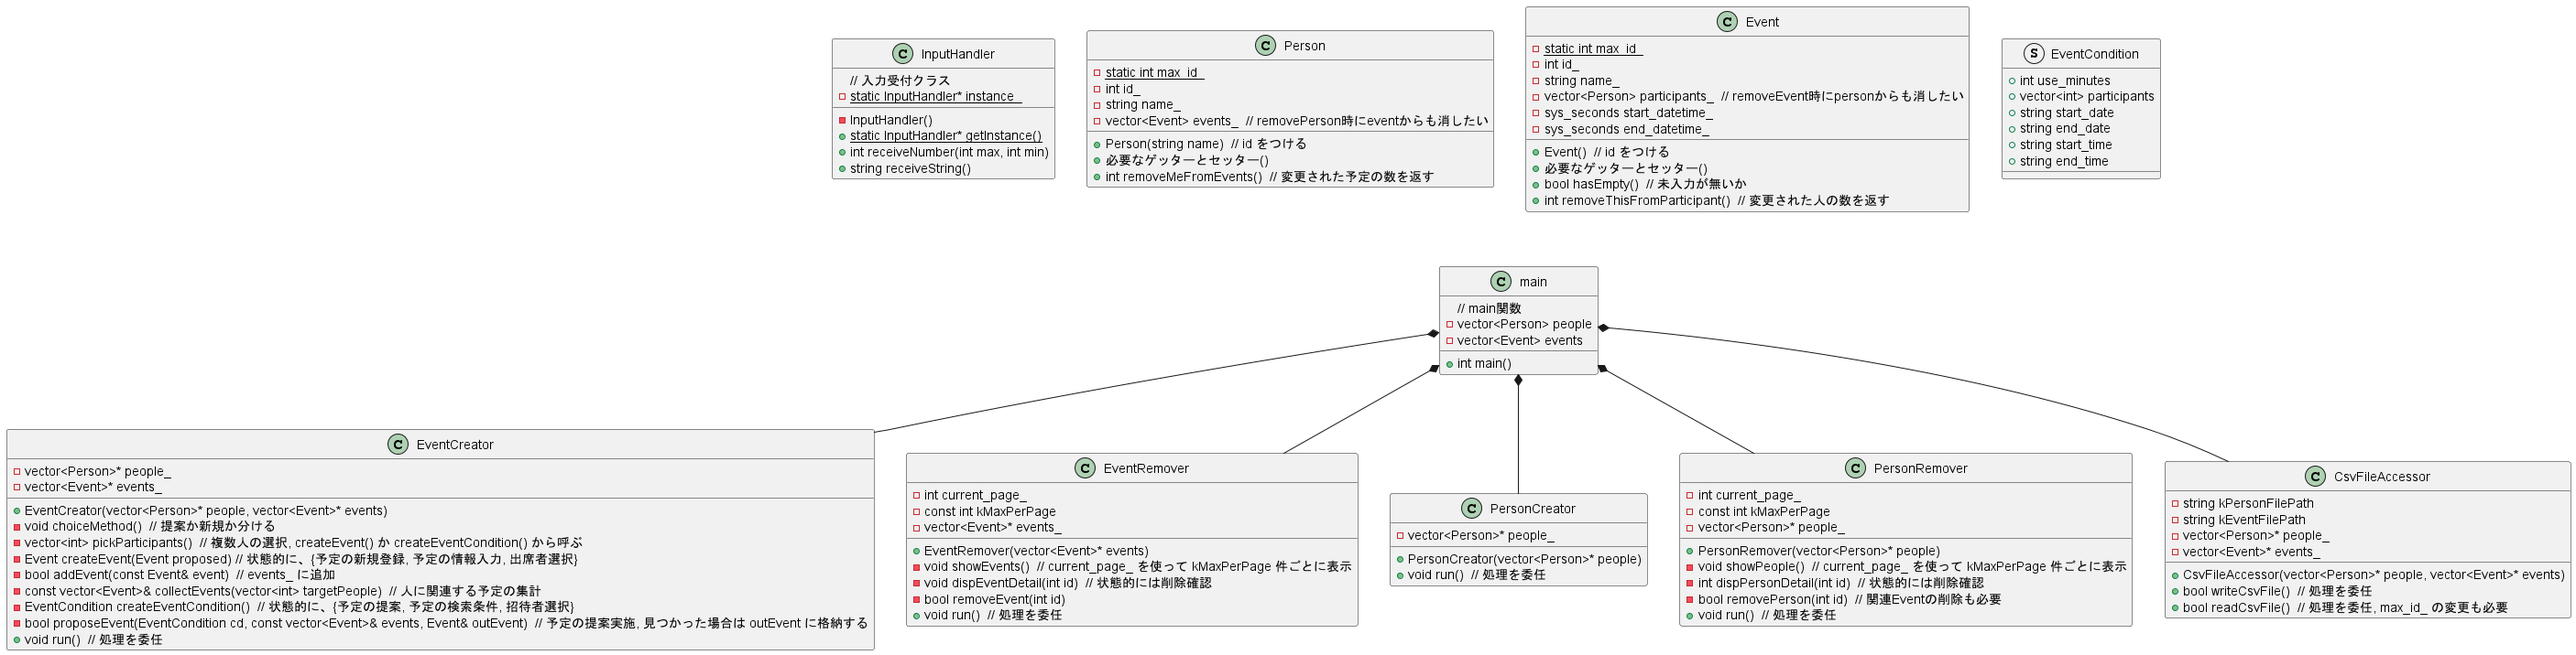
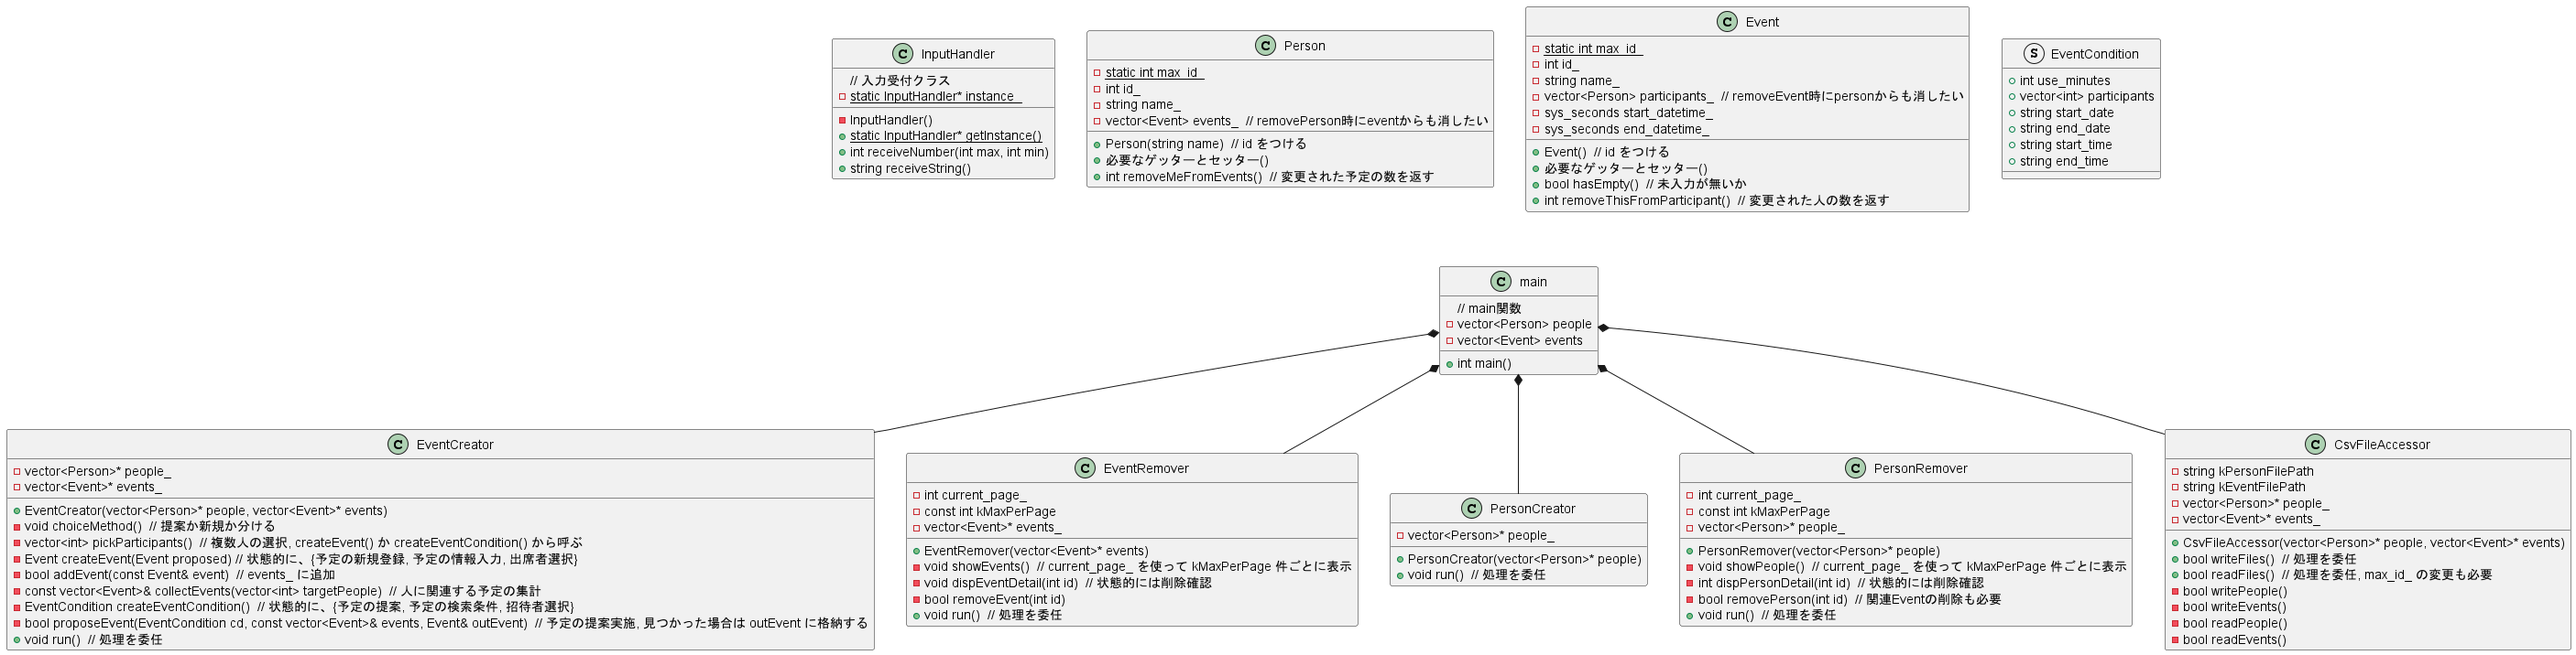
save : temporary CsvFileAccessor

Changed region(s): [[0.8353, 0.6453, 1.0, 0.9832], [0.99, 0.676, 1.0, 0.7067]]

diff --git a/ScheduleApp/ScheduleApp/CsvFileAccessor.cpp b/ScheduleApp/ScheduleApp/CsvFileAccessor.cpp
@@ -1,0 +1,108 @@
+#include "CsvFileAccessor.h"
+
+#include <fstream>
+#include <iostream>
+#include <vector>
+
+#include "Event.h"
+#include "InputHandler.h"
+#include "Person.h"
+
+
+CsvFileAccessor::CsvFileAccessor(
+	std::vector<Person>* people,
+	std::vector<Event>* events)
+	: kPersonFilePath("persons.csv"), kEventFilePath("events.csv"),
+		people_(people), events_(events) {}
+
+bool CsvFileAccessor::writeFiles() {
+	InputHandler* input_handler = InputHandler::getInstance();
+
+	int user_input = -1;
+	while (user_input == -1) {
+		std::cout << "人と予定のデータをファイルに保存します" << std::endl << std::endl;
+		std::cout << "[1]:保存する [0]:保存をやめる" << std::endl << std::endl;
+
+		user_input = input_handler->receiveNumber(1);
+	}
+
+	bool is_success = false;
+	if (user_input == 1) {
+		bool is_success_people = writePerson();
+		bool is_success_events = writeEvents();
+		if (is_success_people && is_success_events) {
+			is_success = true;
+		}
+	}
+
+	return is_success;
+}
+
+bool CsvFileAccessor::readFiles() {
+	InputHandler* input_handler = InputHandler::getInstance();
+
+	int user_input = -1;
+	while (user_input == -1) {
+		std::cout << "人と予定のデータをファイルを読込します" << std::endl << std::endl;
+		std::cout << "[1]:読込する [0]:読込をやめる" << std::endl << std::endl;
+
+		user_input = input_handler->receiveNumber(1);
+	}
+
+	bool is_success = false;
+	if (user_input == 1) {
+		bool is_success_people = readPerson();
+		bool is_success_events = readEvents();
+		if (is_success_people && is_success_events) {
+			is_success = true;
+		}
+	}
+
+	return is_success;
+}
+
+bool CsvFileAccessor::writePerson() {
+	bool is_success = false;
+
+	try {
+		std::ofstream file(kPersonFilePath);
+		file << "id,name,events" << std::endl;
+		for(auto it : *people_) {
+			file << it.getId() << ","
+				<< it.getName() << ","
+				<< it.getEventsString() 
+				<< std::endl;
+		}
+
+		is_success = true;
+	}
+	catch (...) {
+		std::cerr << "人の情報の保存に失敗しました" << std::endl << std::endl;
+	}
+
+	return is_success;
+}
+
+bool CsvFileAccessor::writeEvents() {
+	bool is_success = false;
+
+	try {
+		std::ofstream file(kEventFilePath);
+		file << "id,name,participants,start_datetime,end_datetime" << std::endl;
+		for (auto it : *events_) {
+			file << it.getId() << ","
+				<< it.getName() << ","
+				<< it.getParticipantsString() << ","
+				<< it.getStartDateTimeString() << ","
+				<< it.getEndDateTimeString()
+				<< std::endl;
+		}
+
+		is_success = true;
+	}
+	catch (...) {
+		std::cerr << "人の情報の保存に失敗しました" << std::endl << std::endl;
+	}
+
+	return is_success;
+}

diff --git a/ScheduleApp/ScheduleApp/Main.cpp b/ScheduleApp/ScheduleApp/Main.cpp
@@ -2,6 +2,7 @@
 #include <string>
 #include <vector>
 
+#include "CsvFileAccessor.h"
 #include "Event.h"
 #include "InputHandler.h"
 #include "Person.h"
@@ -16,6 +17,7 @@ int main() {
 	InputHandler* input_handler = InputHandler::getInstance();
 	PersonCreator person_creator(&people);
 	PersonRemover person_remover(&people);
+	CsvFileAccessor csv_file_accessor(&people, &events);
 
 	int input_num = -1;
 	while (true) {
@@ -46,9 +48,11 @@ int main() {
 			continue;
 		}
 		else if (input_num == 5) {
+			csv_file_accessor.writeFiles();
 			continue;
 		}
 		else if (input_num == 6) {
+			csv_file_accessor.readFiles();
 			continue;
 		}
 		else {

diff --git a/ScheduleApp/ScheduleApp/Event.cpp b/ScheduleApp/ScheduleApp/Event.cpp
@@ -1,6 +1,9 @@
 #include "Event.h"
 
 #include <chrono>
+#include <string>
+
+#include "Person.h"
 
 
 int Event::max_id = 0;
@@ -31,4 +34,28 @@ bool Event::hasEmpty() {
 	else {
 		return false;
 	}
+}
+
+int Event::getId() {
+	return id_;
+}
+
+std::string Event::getName() {
+	return name_;
+}
+
+std::string Event::getParticipantsString() {
+	std::string ret;
+	for (auto it : participants_) {
+		ret += it.getId();
+		if (it.getId() != participants_.end()->getId()) {
+			ret += " ";
+		}
+	}
+
+	return ret;
+}
+
+std::string Event::getStartDateTimeString() {
+	
 }

diff --git a/ScheduleApp/ScheduleApp/CsvFileAccessor.h b/ScheduleApp/ScheduleApp/CsvFileAccessor.h
@@ -1,0 +1,30 @@
+#pragma once
+
+#include <string>
+#include <vector>
+
+#include "Event.h"
+#include "Person.h"
+
+
+class CsvFileAccessor
+{
+public:
+	CsvFileAccessor(
+		std::vector<Person>* people,
+		std::vector<Event>* events);
+
+	bool writeFiles();
+	bool readFiles();
+
+private:
+	bool writePerson();
+	bool writeEvents();
+	bool readPerson();
+	bool readEvents();
+
+	std::string kPersonFilePath;
+	std::string kEventFilePath;
+	std::vector<Person>* people_;
+	std::vector<Event>* events_;
+};

diff --git a/ScheduleApp/ScheduleApp/Person.cpp b/ScheduleApp/ScheduleApp/Person.cpp
@@ -1,6 +1,9 @@
 #include "Person.h"
 
 #include <string>
+#include <vector>
+
+#include "Event.h"
 
 
 int Person::max_id = 0;
@@ -16,6 +19,22 @@ int Person::removeMeFromEvents() {
 	return num_remove;
 }
 
+int Person::getId() {
+	return id_;
+}
+
 std::string Person::getName() {
 	return name_;
+}
+
+std::string Person::getEventsString() {
+	std::string ret;
+	for (auto it : events_) {
+		ret += it.getId();
+		if (it.getId() != events_.end()->getId()) {
+			ret += " ";
+		}
+	}
+
+	return ret;
 }

diff --git a/ScheduleApp/ScheduleApp/Event.h b/ScheduleApp/ScheduleApp/Event.h
@@ -16,6 +16,11 @@ public:
 	int removeThisFromParticipants();
 
 	bool hasEmpty();
+	int getId();
+	std::string getName();
+	std::string getParticipantsString();
+	std::string getStartDateTimeString();
+	std::string getEndDateTimeString();
 
 private:
 	static int max_id;

diff --git a/ScheduleApp/ScheduleApp/Person.h b/ScheduleApp/ScheduleApp/Person.h
@@ -14,12 +14,13 @@ public:
 	Person(std::string name);
 	int removeMeFromEvents();
 
+	int getId();
 	std::string getName();
+	std::string getEventsString();
 
 private:
 	static int max_id;
 	int id_;
 	std::string name_;
 	std::vector<Event> events_;
-
 };
